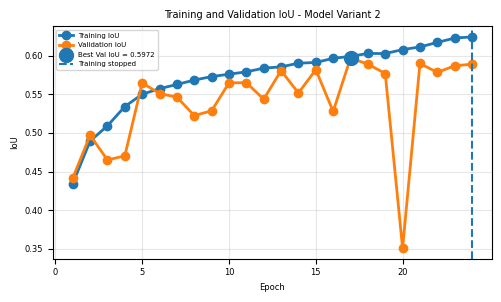
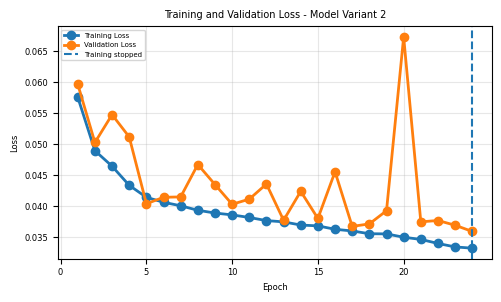
adding assets
adding more assets and modified readme

diff --git a/README.md b/README.md
@@ -107,7 +107,13 @@ Five U-Net variants were created:
 #### Dataset 2 
 Both U-Net and U-Net + CBAM showed steady improvements during training, with decreasing loss and increasing PA and IoU. U-Net achieved a validation IoU of 60.07% after 30 epochs, while U-Net + CBAM reached a best validation IoU of 59.72% at epoch 17. Although U-Net + CBAM achieved a slightly higher training IoU (62.46% vs. 61.30%), U-Net showed more stable validation performance. Overall, U-Net performed slightly better on the available validation results, although U-Net + CBAM requires further training for a fair comparison.
 
-[noraml U-net](./assets/U-net_results.png)
+![noraml U-net](./assets/U-net_results.png) 
+
+![normal U-net iou](./assets/normal U-net_iou.png)
+
+![noraml U-net](./assets/U-net+CBAM.png)
+
+![noraml U-net](./assets/CBAM_iou.png)
 
 ---
 
